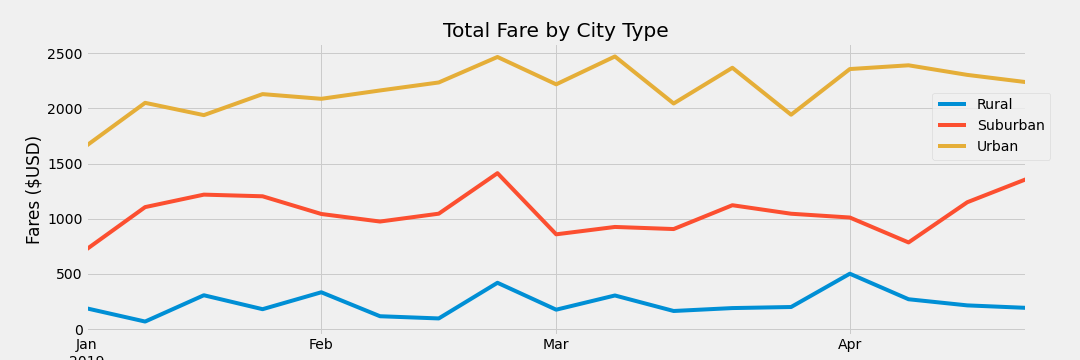
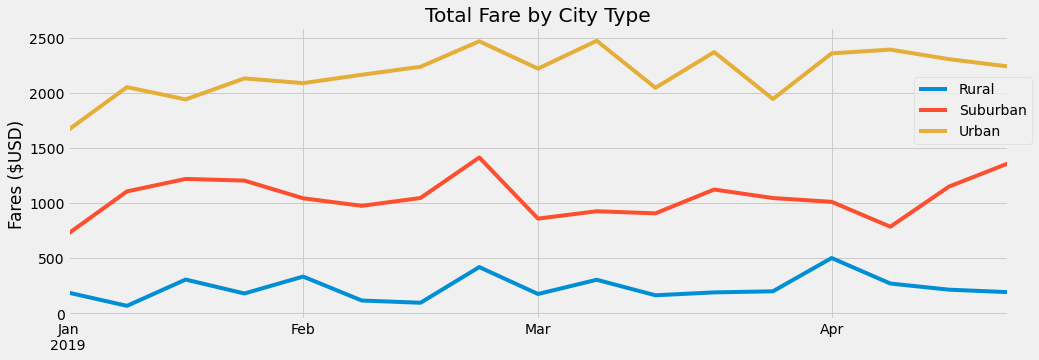
fix png so xlabels are not cut off

diff --git a/README.md b/README.md
@@ -1,2 +1,25 @@
 # Rideshare_Analysis
+## Purpose:
 Analyzing rideshare data and producing visualizations
+## Overview:
+### Purpose:
+The goal of this analysis is to compare various metrics around ridesharing profitability, usage frequency, and availability at various types of cities (Urban, Suburuban, and Rural). We were particularly interested in the fares (revenues) generated in the first four months of the year. By pivoting our data by 'week', we hope to identify any trends hidden in any of the city types.
+
+## Results:
+![summary_df](/Analysis/Rideshare_Summary_DF.png)
+### Rural
+We see that Rural cities have lower demand for rideshares, resulting in lower 'total' fares, fewer drivers (due to lower demand). Due to the low driver count however, we see that individual rides appear to be more expensive (approx $35 on average), likely due to higher demand. Drivers are also generating higher fares (approx $55 on average) compared to those in Suburban and Urban cities, as each driver is receiving a larger proportionate share of the demand for rides.
+### Suburban
+
+### Urban
+We see that Urban cities have the highest demand for rideshares, resulting in the highest 'total' fares (approx $40K), and highest driver count (in order to meet the high demand). Due to the high driver count however, we see that individual rides appear to be the cheapest in Urban settings (approx $25 on average), likely due to high competition (large supply pool). Drivers are also generating lower fares (approx $17 on average) compared to those in Rural and Suburban cities, as each driver is receiving a smaller proportionate share of the demand for rides.
+
+## Summary:
+### Business Recommendations
+1. 
+
+2. 
+
+3. 
+
+
